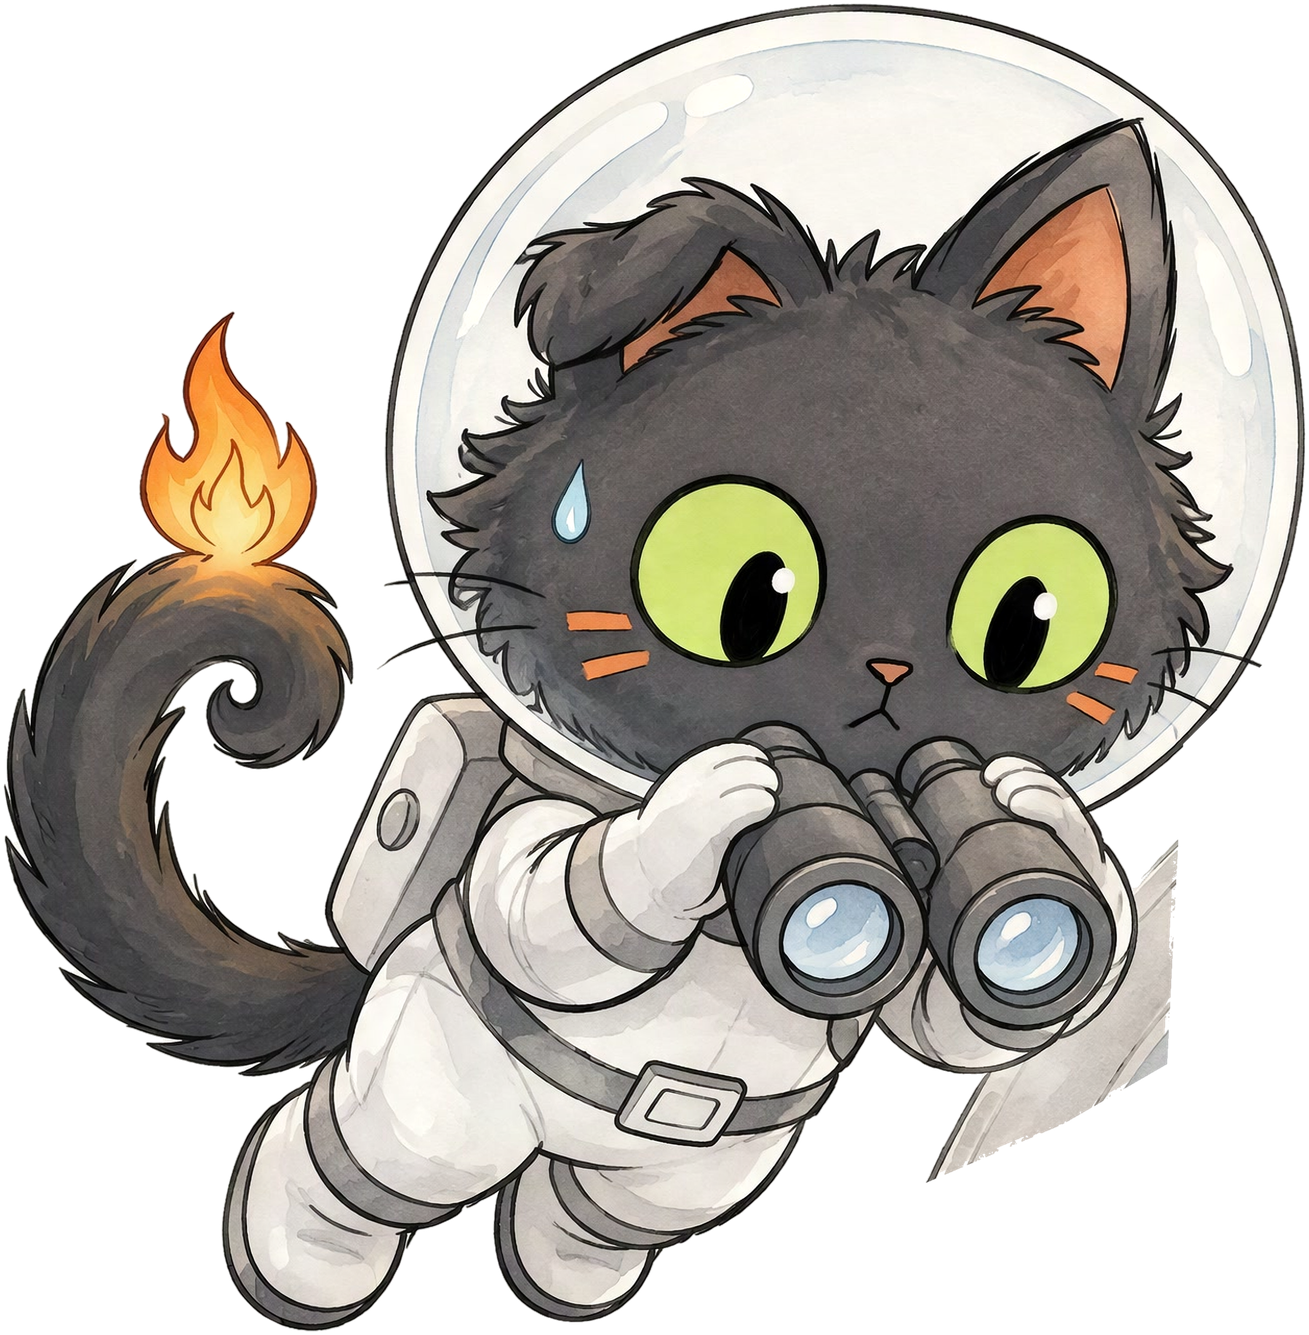
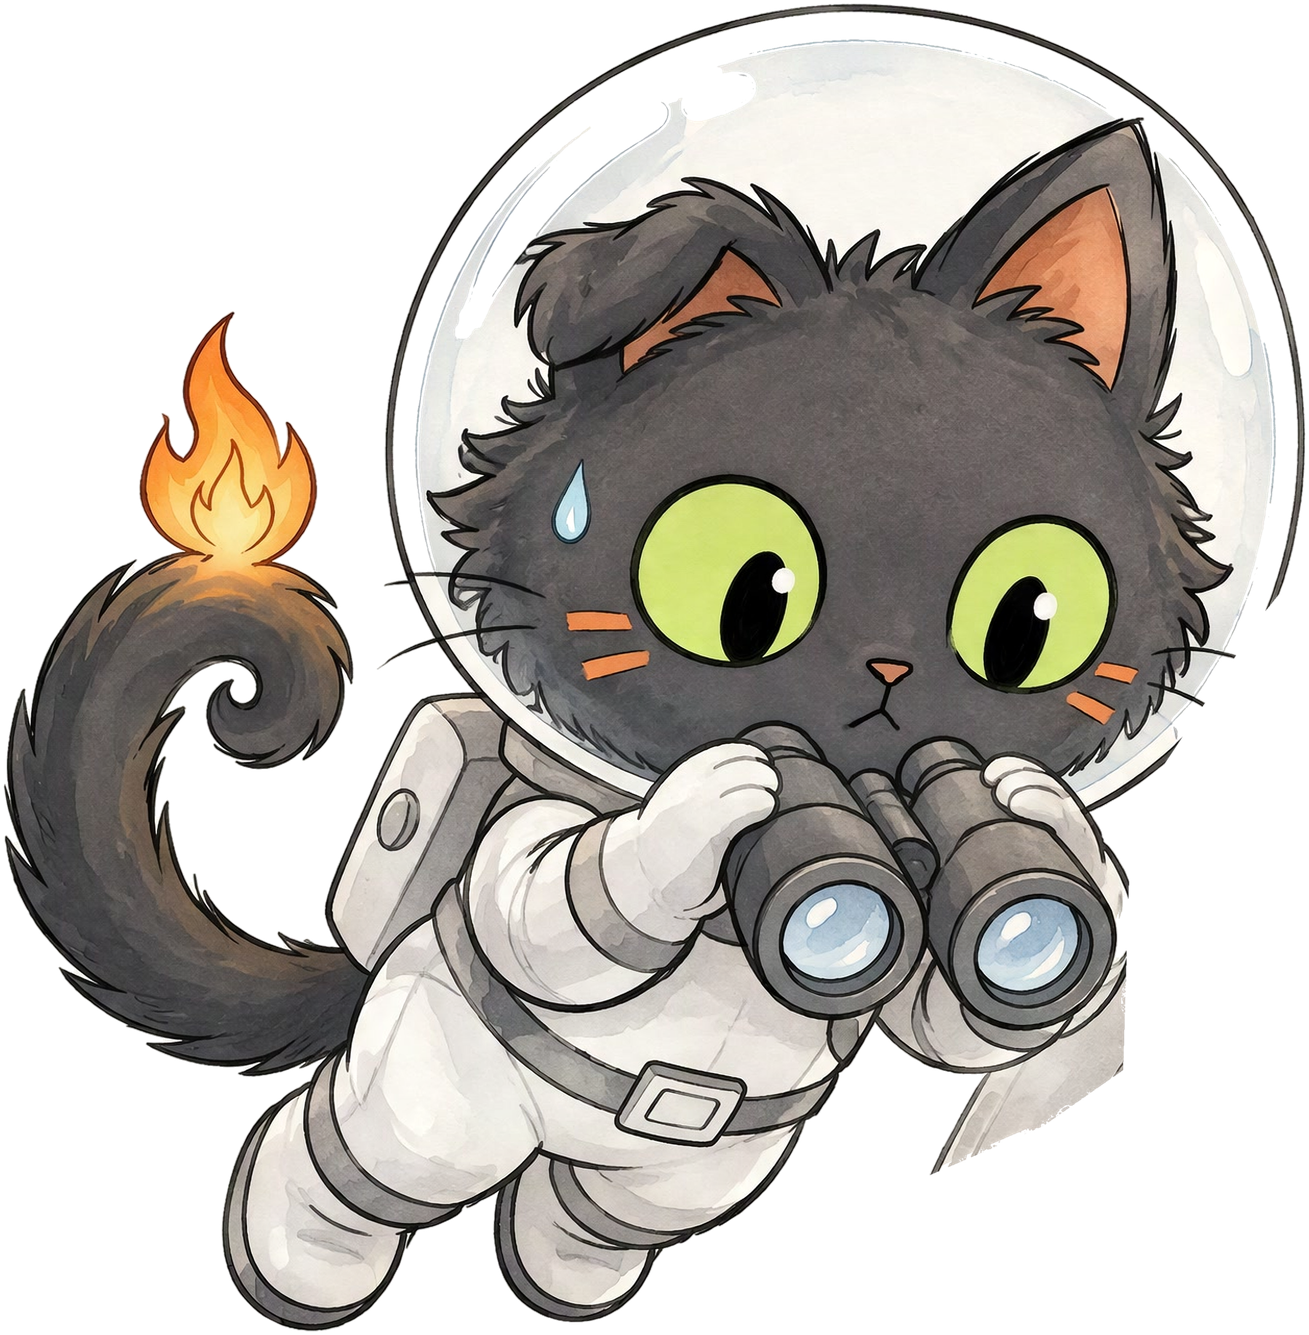
Reel 54: hook scene iteration
Claude-Session: https://claude.ai/code/session_01WL83YHdupNJiw52fjyDVVG

diff --git a/videos/54_mif_stena/reel/anim/space_hf/index.html b/videos/54_mif_stena/reel/anim/space_hf/index.html
@@ -41,7 +41,7 @@
       gsap.set("#qL", { transformOrigin: px(K.q_c) });
       gsap.set("#planetL", { transformOrigin: px(K.port_c) });
       // кот: невесомое покачивание и рывки с кадра 0 (в кадре 0 уже на ходу, без разгона с нуля)
-      const J = 0.13;
+      const J = 2 / 15;   // полупериод ровно 2 кадра: крайние положения на границах кадров, ни один кадр не стоит
       tl.fromTo("#catL", { y: -30, x: -14, rotation: -2.8, scaleY: 1.025 }, { y: 8, x: 10, rotation: 2.0, scaleY: 0.985, duration: J / 2, ease: "none" }, 0);
       let t = J / 2, i = 0;
       while (t < H - 0.1) {
@@ -55,11 +55,11 @@
       tl.to("#catL", { x: -120, y: -70, rotation: -7, scaleX: 1.03, scaleY: 1.03, duration: 0.13, ease: "power3.out" }, H);
       tl.to("#catL", { x: 0, y: 0, rotation: 0, scaleX: 1, scaleY: 1, duration: 0.85, ease: "elastic.out(1, 0.35)" }, H + 0.13);
       // иллюминатор: медленный дрейф и поворот, свет Земли пульсирует (только слой планеты)
-      tl.fromTo("#planetL", { x: -16, y: 10, rotation: -0.7 }, { x: 18, y: -12, rotation: 0.8, duration: 2.0, ease: "none" }, 0);
+      tl.fromTo("#planetL", { x: -8, y: 5, rotation: -0.4 }, { x: 9, y: -6, rotation: 0.4, duration: 2.0, ease: "none" }, 0);
       for (let k = 0; k * 0.1 < DURATION(); k++) {
         tl.to("#planet", { filter: k % 2 ? "brightness(1.00) saturate(1.0)" : "brightness(1.07) saturate(1.2)", duration: 0.1, ease: "none" }, k * 0.1);
       }
-      tl.to("#planetL", { x: 40, y: -26, scale: 1.02, duration: 0.2, ease: "power2.out" }, H);   // от испуга: Земля тоже вздрагивает
+      tl.to("#planetL", { x: 18, y: -12, scale: 1.01, duration: 0.2, ease: "power2.out" }, H);   // от испуга: Земля тоже вздрагивает
       // «?»: подрагивает с кадра 0, на ударе выскакивает крупнее и качается
       tl.fromTo("#qL", { y: 6, rotation: -8, scale: 1.0 }, { y: -8, rotation: 7, scale: 1.06, duration: 0.11, ease: "none" }, 0);
       for (let k = 1; 0.11 * k < H - 0.05; k++) {

diff --git a/videos/54_mif_stena/reel/anim/kit_space.py b/videos/54_mif_stena/reel/anim/kit_space.py
@@ -31,7 +31,7 @@ def P(pts):
 CAT_REG = P([(0, 340), (195, 340), (205, 212), (672, 212), (672, 480), (640, 520), (606, 572), (574, 620), (570, 748),
              (530, 776), (440, 815), (400, 840), (400, 892), (0, 892)])
 Q_BOX = tuple(int(v * K) for v in (668, 352, 740, 440))
-PORT = P([(424, 1248), (424, 1000), (436, 880), (466, 790), (516, 700), (576, 628), (656, 568), (740, 532), (832, 500),
+PORT = P([(400, 1248), (400, 1000), (410, 880), (440, 790), (490, 700), (550, 628), (630, 568), (720, 525), (832, 490),
           (832, 1248)])
 PIVOT = P([(330, 700)])[0]               # ось качания кота: центр скафандра
 HEAD = P([(430, 450)])[0]
